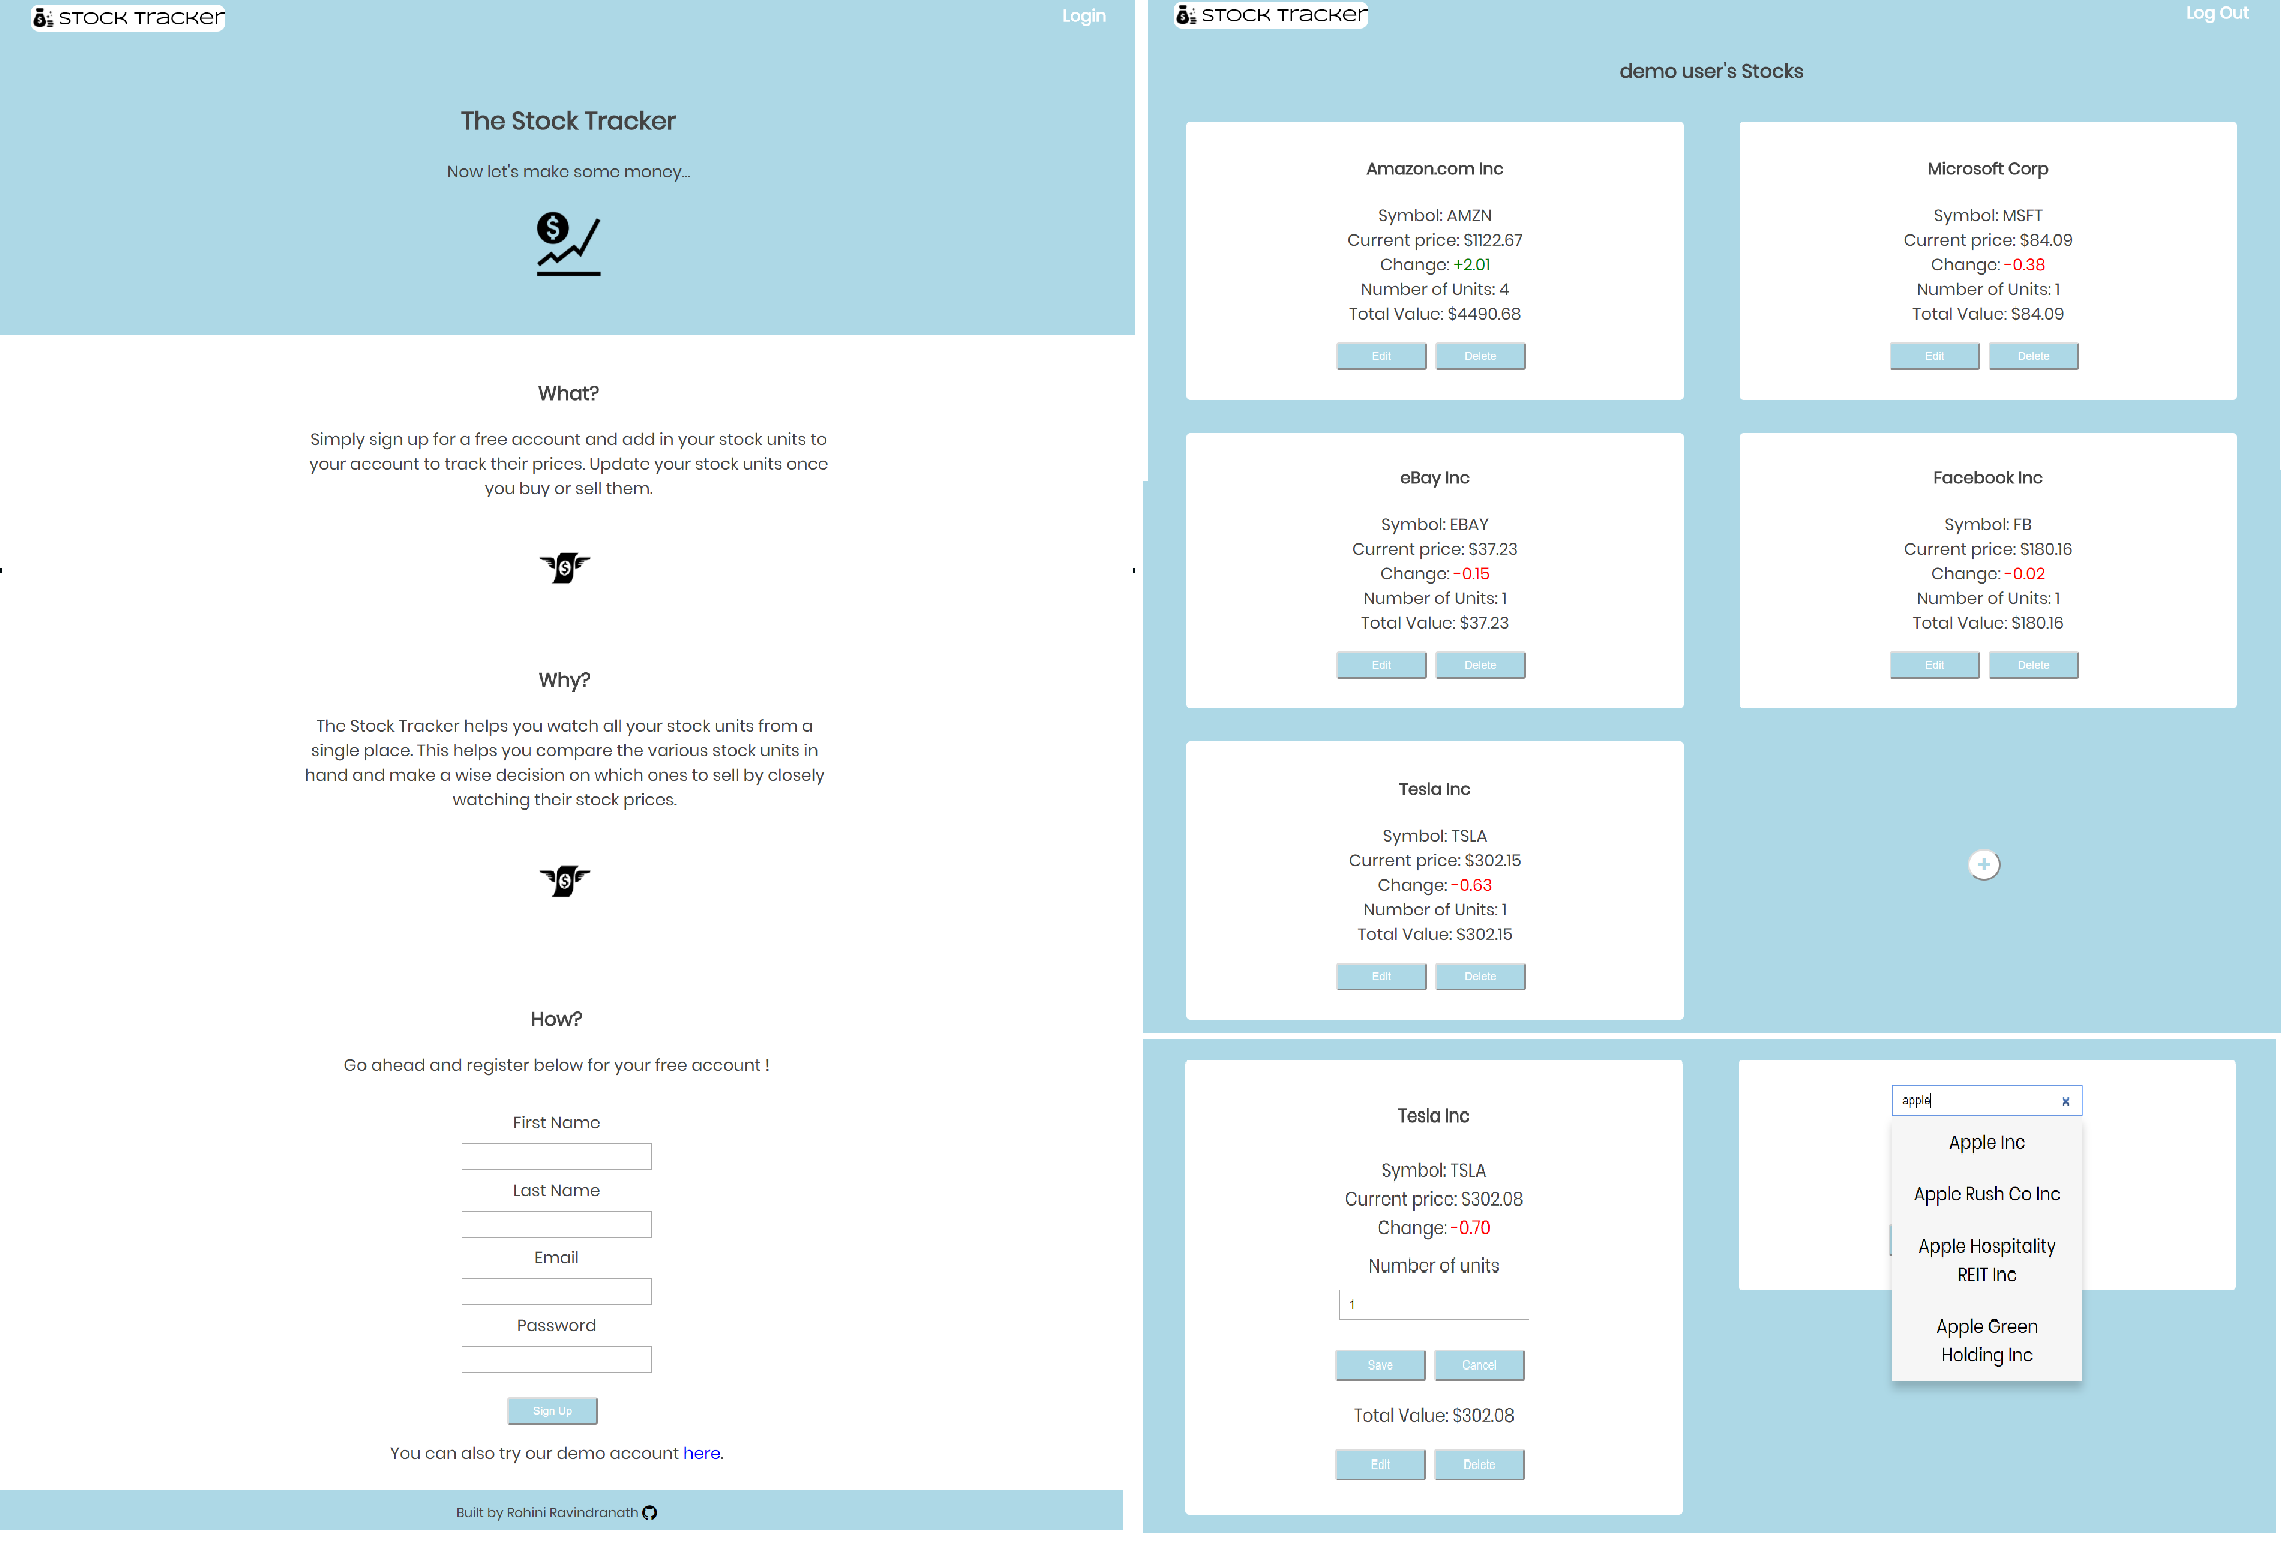
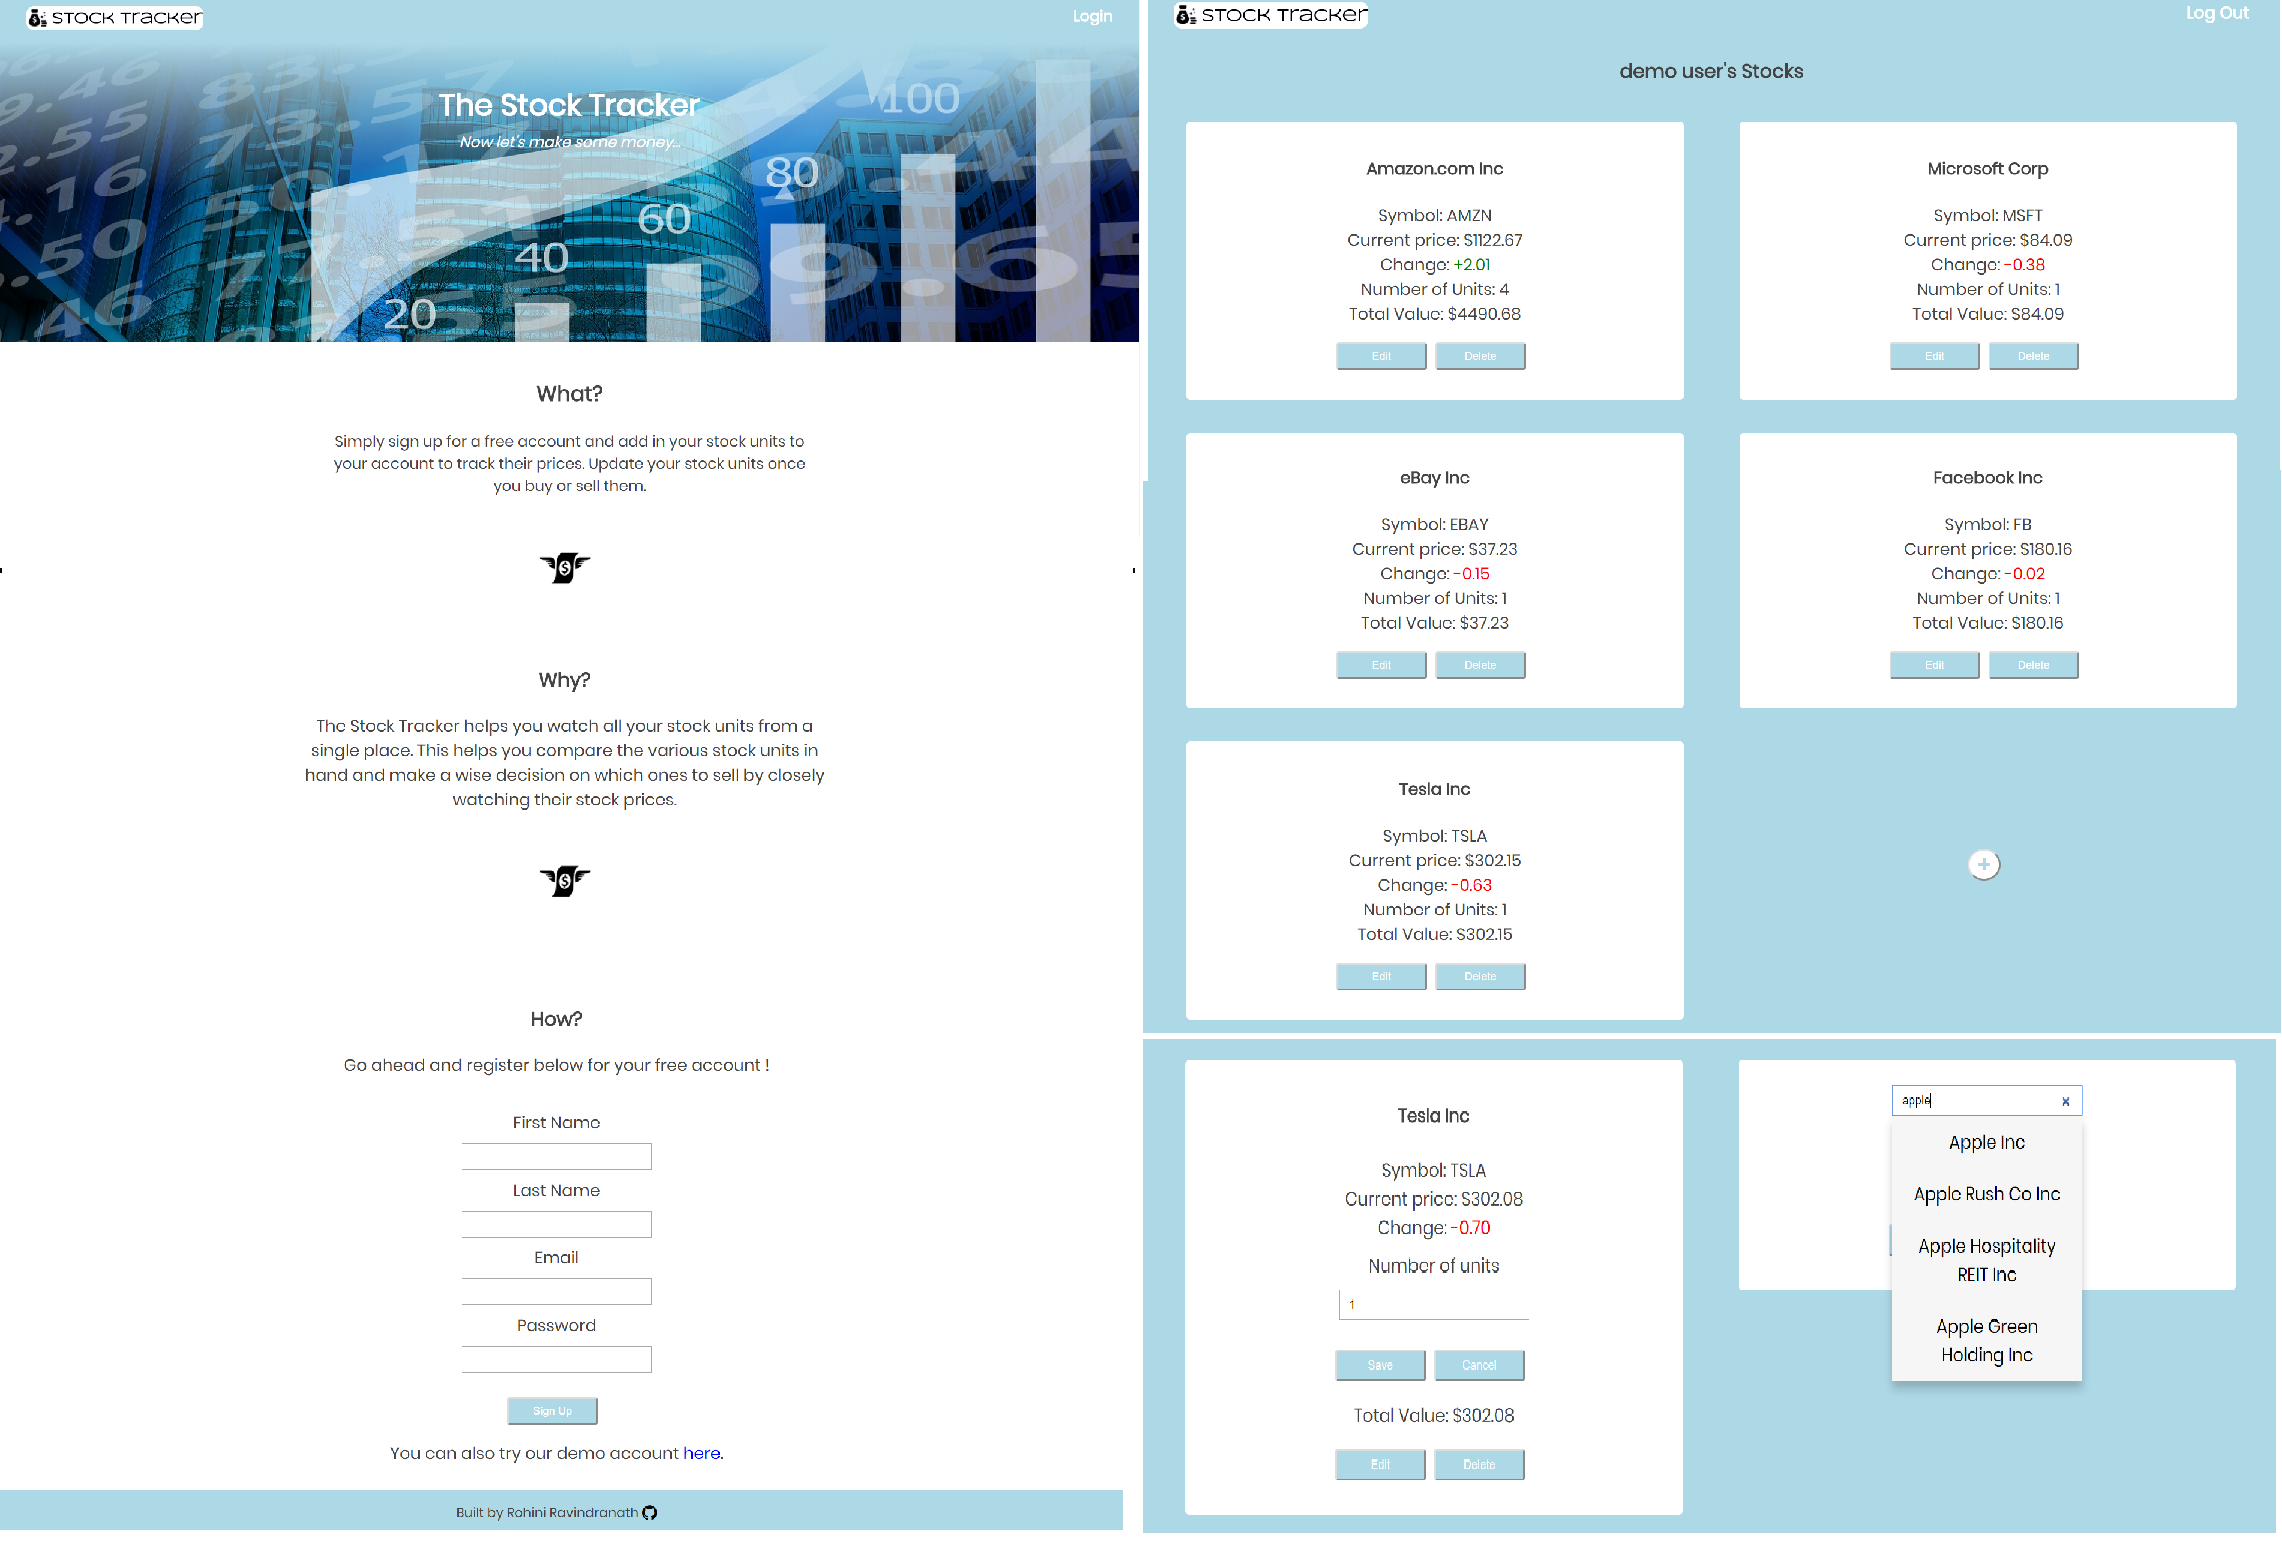
review changes

Changed region(s): [[0.0, 0.0, 0.4978, 0.249], [0.1245, 0.2802, 0.3734, 0.3424]]

diff --git a/src/components/app.css b/src/components/app.css
@@ -9,13 +9,18 @@ body {
   background-color: lightblue;
   line-height: 1.5;
   text-align: center;
+  margin:0;
+}
+
+nav {
+  padding-top: 15px;
+  padding-bottom: 30px;
+  background-size: cover; 
 }
 
 nav,
 footer {
-  padding: 5px 5px;
-  background-color: lightblue;
-  height:50px;
+   background-color: lightblue;
   font-size: 16px;
 }
 
@@ -58,18 +63,27 @@ nav h1,h2 {
   display: inline;
   margin:0;
   font-size: 14px;
+}
 
+.landing header p {
+  font-style: italic;
 }
 
 .landing section {
   min-height: 200px;
-  padding: 30px 15px;
+  padding: 20px 20px;
   background-color: white;
   text-align: center;
 }
 
 .landing section:nth-child(1) {
+  background-image: linear-gradient(lightblue, rgba(0,0,0,0), transparent),url('~/images/bg.jpg');
+  background-size: cover;
+  background-position: center;
+  background-repeat: no-repeat;
   background-color: lightblue;
+  height:400px;
+  color: white;
 }
 
 p {
@@ -81,8 +95,8 @@ p + p {
   margin-top: 15px;
 }
 
-.landing, .icon {
-  margin-top: 20px;
+.landing h1 {
+  margin-bottom: 5px;
 }
 
 label, input {
@@ -132,20 +146,9 @@ button {
   padding: 0px;
 }
 
-section:nth-child(1) {
-}
-
 #search {
   margin-bottom: 0px;
 }
-
-/*.addCompany {
-  padding: 15px 15px;
-  background-color: white;
-  border: 1px solid white;
-  border-radius: 5px;
-  margin:20px 40px;
-}*/
 
 .dropdown {
     position: relative;
@@ -200,11 +203,6 @@ input {
   margin-right: 5px;
   margin-top: 6px;
   vertical-align: text-bottom;
-}
-
-#stocks {
-  width:100px;
-  margin: 30px auto;
 }
 
 #money {

diff --git a/src/components/landingpage.js b/src/components/landingpage.js
@@ -18,8 +18,6 @@ export function LandingPage(props) {
 				 <header role="banner">
 		      		<h1>The Stock Tracker</h1>
 		      		<p>Now let's make some money...</p>
-
-		      		<img id="stocks" src="images/noun_398882_cc.png"  alt="" />
 		    	</header>
 	    	</section>
 	    	<section>

diff --git a/src/components/float-grid.css b/src/components/float-grid.css
@@ -100,16 +100,24 @@
     text-align: left;
   }
 
-  #logo{
+  #logo {
     width:27px;
   }
 
-  .nav2{
+  .nav2 {
     text-align: right;
   }
 
   .addButton {
     margin-top: 150px;
+  }
+
+  .landing h3 {
+    font-size: 28px;
+  }
+
+  .landing h1 {
+    font-size:40px;
   }
 
 }
